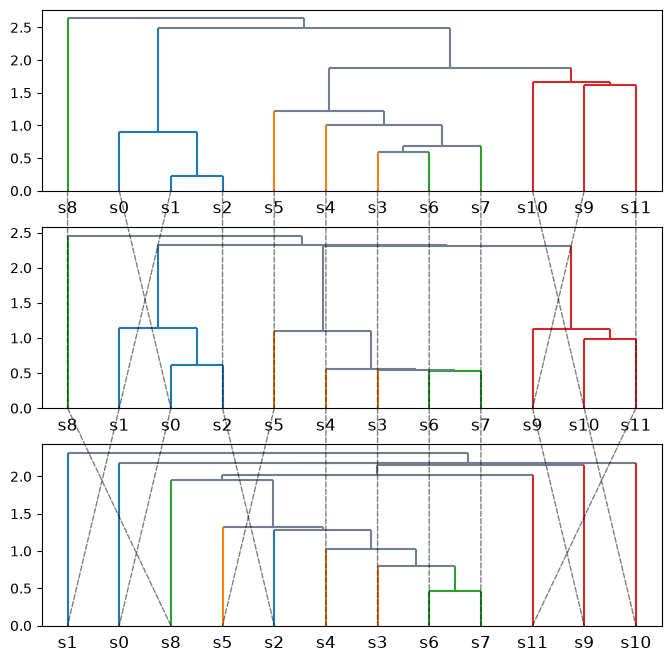
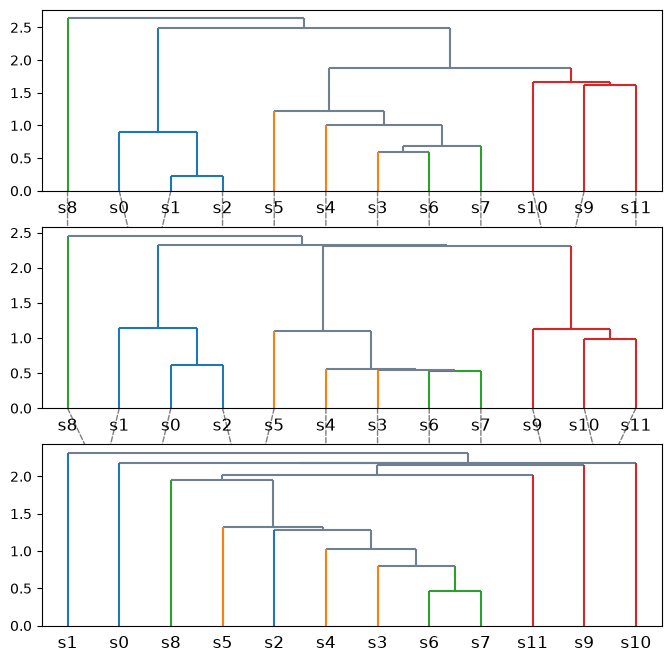
document the circular layout and cluster_flow
Adds worked examples for both, with the noise levels for the flow chosen
so the clusters visibly degrade rather than scrambling at the first step.

diff --git a/docs/make_readme_images.py b/docs/make_readme_images.py
@@ -214,6 +214,41 @@ fig, dns = tg.tanglegram_many(
 save(fig, "tangle_many.png", tight=False)
 
 
+# ------------------------------------------------------------ 8c. circular
+fig, dns = tg.tanglegram_many(
+    [view(0, 0), view(0.5, 1), view(1.0, 2)],
+    sort=True,
+    clusters=[few_names] * 3,
+    layout="circular",
+    color_edges_by="source",
+    names=["baseline", "noise 0.5", "noise 1.0"],
+    figsize=(7.5, 7.5),
+)
+save(fig, "tangle_circular.png", tight=False)
+
+
+# ------------------------------------------------------------ 8d. cluster flow
+# Five well separated groups, clustered again at rising noise levels
+flow_rng = np.random.default_rng(7)
+truth_centers = np.array([[0, 0], [4, 0], [2, 4], [6, 4], [8, 0]], dtype=float)
+flow_X = np.repeat(truth_centers, 60, axis=0) + flow_rng.normal(0, 0.8, (300, 2))
+truth = np.repeat([f"g{i + 1}" for i in range(5)], 60)
+
+
+def cluster_at(noise, seed):
+    jittered = flow_X + np.random.default_rng(seed).normal(0, noise, flow_X.shape)
+    return sch.fcluster(sch.linkage(jittered, "ward"), 5, criterion="maxclust")
+
+
+flows, ax = tg.cluster_flow(
+    [truth, cluster_at(0.8, 1), cluster_at(1.6, 2), cluster_at(2.4, 3)],
+    names=["true groups", "noise 0.8", "noise 1.6", "noise 2.4"],
+    share_colors=False,
+    figsize=(9, 5),
+)
+save(ax.figure, "cluster_flow.png")
+
+
 # ---------------------------------------------------------------- 9. plotly
 try:
     dn, fig = tg.dendrogram(

diff --git a/README.md b/README.md
@@ -7,7 +7,9 @@ by Tal Galili.
 ## Features
 - dendrograms with additional features compared to scipy: cluster colouring,
   leaf annotation tracks, collapsed clades, radial layouts
-- tanglegrams of two or more dendrograms, with shared cluster colours
+- tanglegrams of two or more dendrograms, stacked or circular, with shared
+  cluster colours
+- alluvial view of how cluster membership changes between clusterings
 - measures of how similar two trees are, independent of how they are drawn
 - `matplotlib` or `plotly` as plotting backend
 
@@ -45,7 +47,8 @@ Installing via [PIP](https://pip.pypa.io/en/stable/installing/) should install a
 6. `tanglegram.untangle` rotates dendrograms to minimize entanglement or crossings
 7. `tanglegram.alignment_quality` judges an alignment against what the trees allow
 8. `tanglegram.cophenetic_correlation` and `tanglegram.baker_gamma` measure how similar two trees are
-9. `tanglegram.cluster_color_map` builds one colour mapping shared across plots
+9. `tanglegram.cluster_flow` shows how cluster membership moves between clusterings
+10. `tanglegram.cluster_color_map` builds one colour mapping shared across plots
 
 ```Python
 import tanglegram as tg
@@ -407,6 +410,91 @@ It returns the figure plus one dendrogram per input, in the same order, so
 Every tree here has its leafs along the bottom, so a connector has to cross the
 panel below it - keep the number of leafs modest or the lines become hard to
 follow.
+
+#### Circular layout
+
+The stacked layout has a limit that no amount of tweaking fixes: a tree has one
+leaf row, at one end, so a middle tree can never sit next to *both* its
+neighbours and some connector always has to cross a tree.
+
+`layout="circular"` sidesteps it. Point the trees outwards from a shared inner
+ring and every leaf row lands on the same circle, so a connector is just a
+chord across the middle and crosses nothing at all:
+
+```Python
+fig, dns = tg.tanglegram_many(
+    [view(0, 0), view(0.5, 1), view(1.0, 2)],
+    sort=True,
+    clusters=[few_names] * 3,
+    layout="circular",
+    color_edges_by="source",
+    names=["baseline", "noise 0.5", "noise 1.0"],
+    figsize=(7.5, 7.5),
+)
+```
+
+<img src="docs/images/tangle_circular.png" width="600">
+
+`color_edges_by` colours each chord by the cluster it leaves ("source") or
+arrives at ("target"), which is what makes the middle readable - without it you
+get a grey thicket. `inner_radius` trades room for the trees against room for
+the chords, and `bow` sets how far the chords dip towards the centre.
+
+The layout also works for exactly two trees, and unlike the stacked version it
+has no preferred pair: any two sectors are equally close.
+
+### Following clusters between clusterings
+
+Past a few hundred leafs, one line per leaf is hopeless whatever the layout.
+But usually the question is not "where did *this* leaf go" - it is "did this
+cluster survive", which is a question about groups. `cluster_flow` answers that
+with ribbons whose width is the number of observations moving between clusters:
+
+```Python
+flow_rng = np.random.default_rng(7)
+truth_centers = np.array([[0, 0], [4, 0], [2, 4], [6, 4], [8, 0]], dtype=float)
+flow_X = np.repeat(truth_centers, 60, axis=0) + flow_rng.normal(0, 0.8, (300, 2))
+truth = np.repeat([f"g{i + 1}" for i in range(5)], 60)
+
+def cluster_at(noise, seed):
+    jittered = flow_X + np.random.default_rng(seed).normal(0, noise, flow_X.shape)
+    return sch.fcluster(sch.linkage(jittered, "ward"), 5, criterion="maxclust")
+
+flows, ax = tg.cluster_flow(
+    [truth, cluster_at(0.8, 1), cluster_at(1.6, 2), cluster_at(2.4, 3)],
+    names=["true groups", "noise 0.8", "noise 1.6", "noise 2.4"],
+    share_colors=False,
+    figsize=(9, 5),
+)
+```
+
+<img src="docs/images/cluster_flow.png" width="700">
+
+Five well separated groups, re-clustered at rising noise. The first transition
+is almost straight across; by the last one the groups have shredded. That is
+300 observations - a tanglegram of the same data would be a solid block of
+lines.
+
+It returns the counts as well as the axis, so the picture and the numbers agree:
+
+```Python
+[f for f in flows if f["step"] == 0][:3]
+```
+
+A few things worth knowing:
+
+- Blocks are ordered to sit near where their members came from, which keeps the
+  ribbons from crossing more than they have to. `sort=False` falls back to
+  order of first appearance.
+- Ribbons take the colour of the cluster they leave; `color_by="target"` flips
+  that.
+- `share_colors=False` is used above because `fcluster` numbers each cut on its
+  own, so "cluster 1" at one noise level has nothing to do with "cluster 1" at
+  the next. Leave it on when your labels genuinely mean the same thing in every
+  column, and a cluster keeps one colour throughout.
+- Observations with a `None`/NaN assignment are dropped from that column's
+  blocks and from any ribbon touching them, so a block that loses members to
+  missing data visibly fails to fill.
 
 ### Interactive tanglegrams
 
